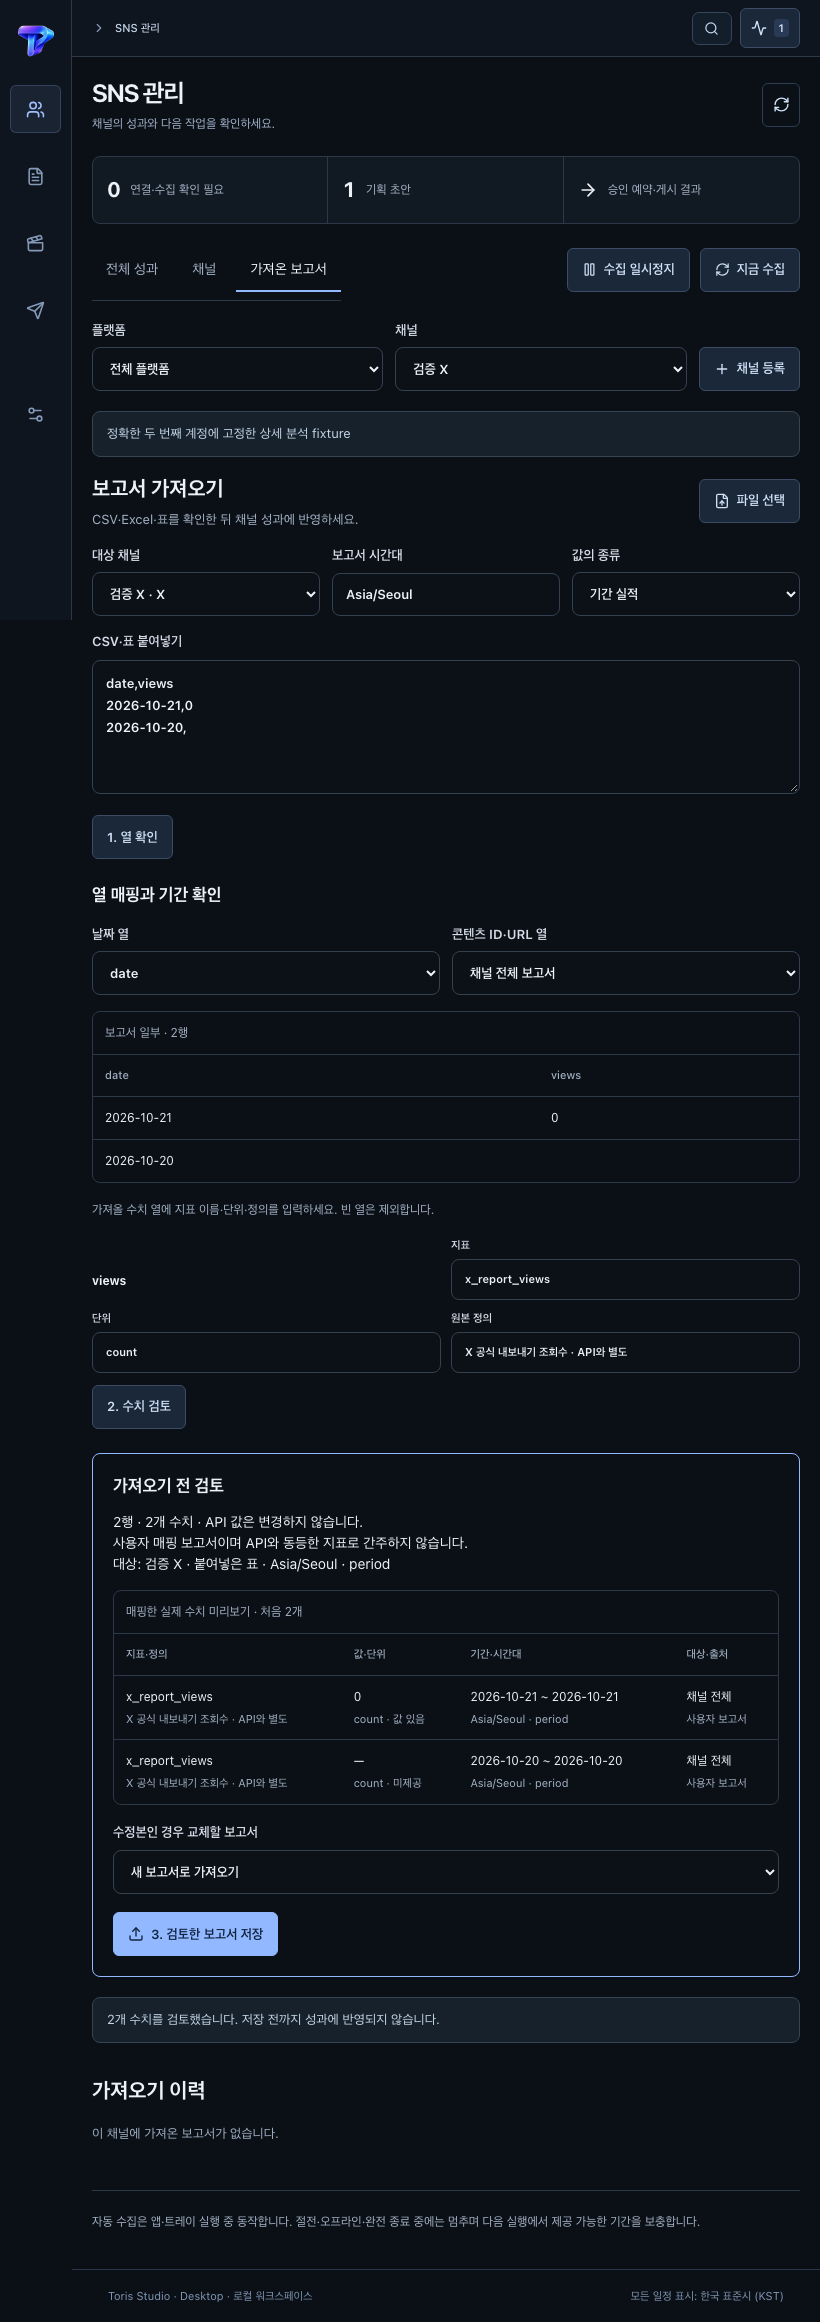
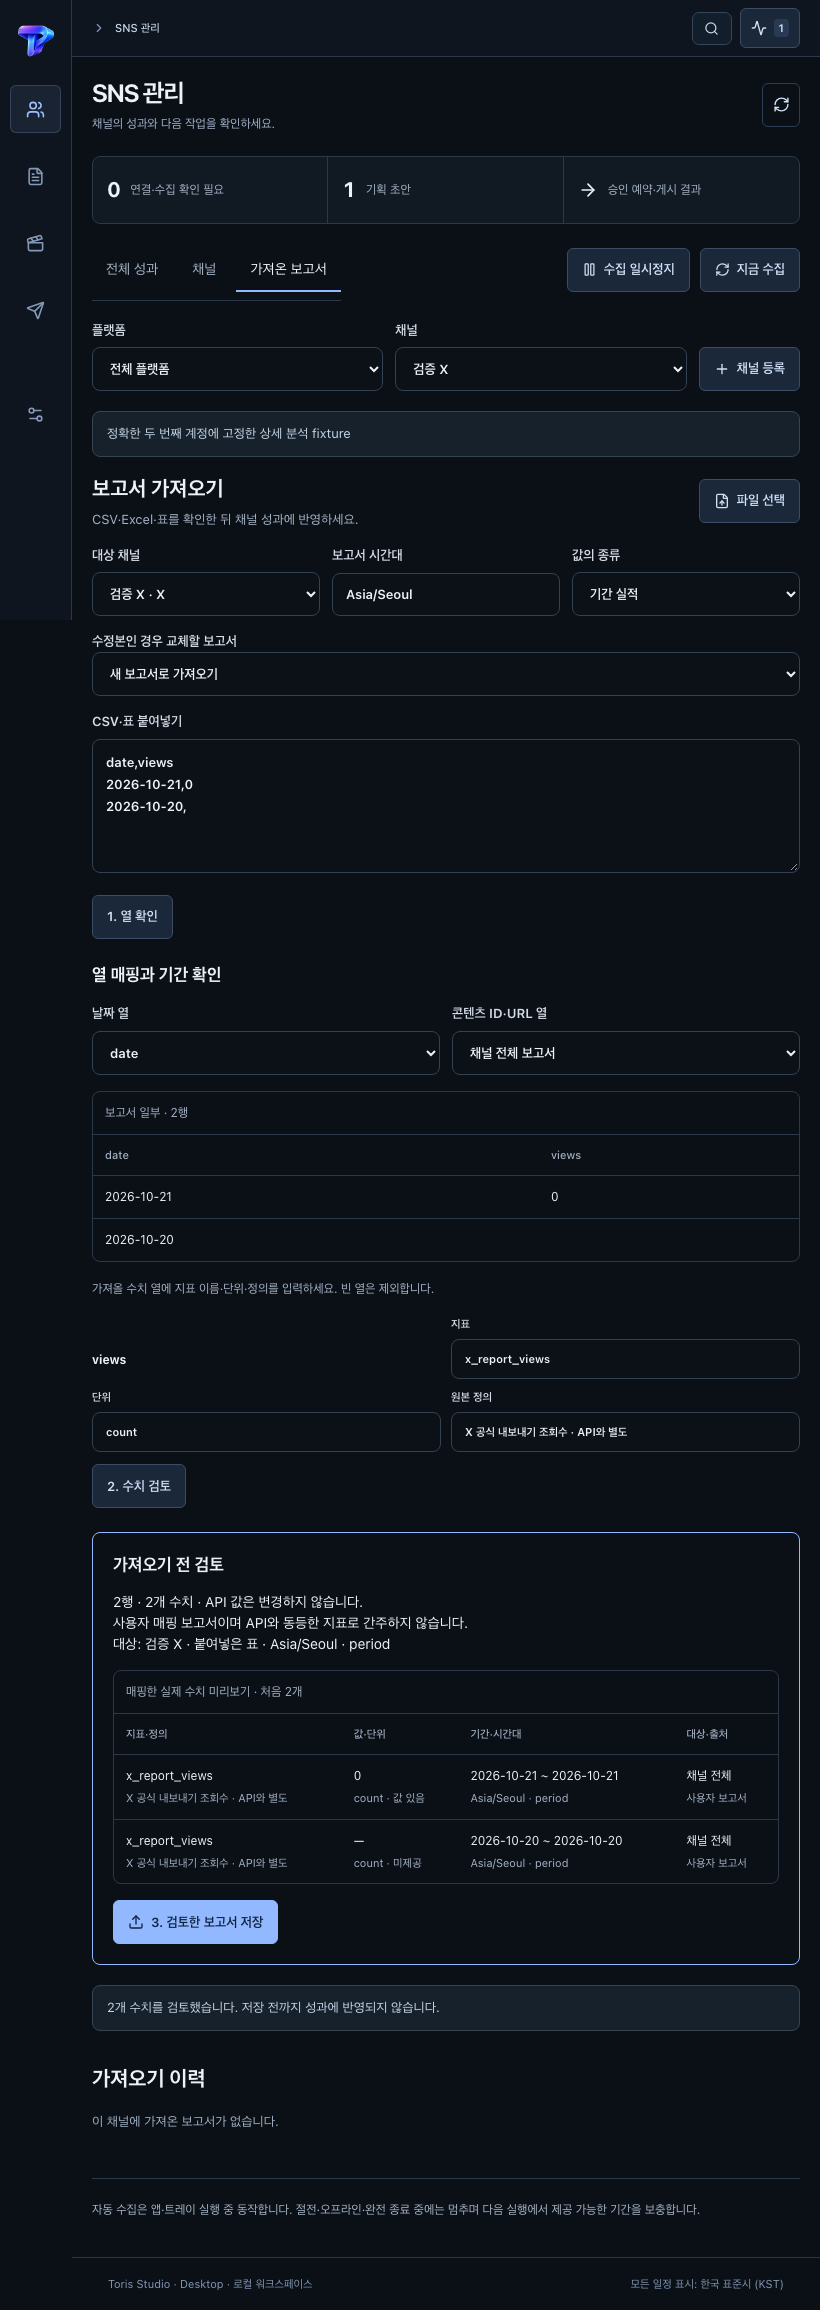
test(sns): verify report aliases and pinned corrections

diff --git a/docs/plans/sns-ui-verification-report.md b/docs/plans/sns-ui-verification-report.md
@@ -4,7 +4,7 @@
 
 | Gate | Evidence |
 |---|---|
-| `node scripts/verify-sns-workspace.mjs` | 9 groups: actual React UI, four primary destinations, eight platforms, exact connection/account pair, zero/null, definitions/timezone, X manual-only controls, mapped report preview/provenance, delayed account and import races, context/keyboard/focus preservation, platform/topic stale protection, RDC copy, 1380×900 and 820×620 without horizontal overflow |
+| `node scripts/verify-sns-workspace.mjs` | 12 groups: actual React UI, four primary destinations, eight platforms, exact connection/account pair, zero/null, definitions/timezone, X manual-only controls, mapped report preview/provenance, stable report alias after account rebind, legacy correction ownership, delayed account and import races, context/keyboard/focus preservation, platform/topic stale protection, RDC copy, 1380×900 and 820×620 without horizontal overflow |
 | `node scripts/verify-ai-workspace.mjs` | 7 groups: real-shaped discovery, evidence deduplication, manual context preservation, bounded RDC request, editable received fixture, delayed DB disconnect/reconnect, trend brief |
 | `node scripts/verify-publication-ui.mjs` | 19 groups: destination consent, subset approval, partial retry, uncertain reconciliation, KST scheduling, revision-bound saved RDC copy, explicit draft apply, manual Naver handoff, TikTok draft/direct distinctions, 820px layout |
 | `node scripts/verify-browser-ui.mjs` | 11 groups: preference persistence, serialized save, redacted failure/recovery, 820px layout, system-browser-only OAuth dispatch |
@@ -17,10 +17,14 @@
 
 Native verifiers honor `CARGO_TARGET_DIR`. This run used `/Users/toris/projects/toris_studio/desktop/src-tauri/target`. The video gate builds the native bin and isolated `creation_qa_bridge` example. Existing asset/motion package commands build their helpers. Media staging was copied from the installed bundle only after `verifyMedia` verified pinned manifest SHA, architecture and FFmpeg 9.0.2; the installed app was neither launched nor changed.
 
+Final alias/correction rerun: `/tmp/toris-sns-node24/node scripts/verify-sns-workspace.mjs` passed on Node v24.16.0 after the final analytics UI changes. Other gates above retain their previously recorded evidence. The initial old fixture failed at report-history lookup because it still expected `accountId`; the updated fixture now requires `channelId` and preserves source/observation `reportChannelId`.
+
 ## Regressions exercised
 
 - A pending or rejected account-B query immediately hides account-A rows and CSV controls. Recovery exports B only. A late B response after switching to X cannot render or export API rows.
 - Three deferred mapped previews separately change target, timezone and metric mapping before resolution. Stale review and save controls never revive. Paste uses `.txt` delimiter detection; comma CSV cannot be forced into TSV.
+- A legacy imported source keeps remote-A as its original owner and a stable local `reportChannelId` after channel rebind to B. API reads carry channel ID plus remote account; import/history use one channel query. The legacy report remains visible.
+- Corrections must be selected before preview. The fixture requires original owner A and the selected `replaceImportId` in preview; changing the replacement while a mapped preview is pending prevents revived review/commit. Reselecting and reviewing commits the captured source, replaces imported 11 with 17, marks the original replaced, and leaves B API 72 unchanged. This is browser/IPC-fixture evidence; native persistence is covered separately by the analytics contract tests.
 - Mapped preview shows the actual two reviewed observations, including original definition, `0`, unavailable `—`, timezone and user-report provenance before commit.
 - A received text fixture remains user reviewed. Changing platform or topic makes it stale without replacing edited prose; background polling preserves textarea focus after navigation settles.
 - Saving and reloading a video catches the StrictMode selection-version race. The source fix resets initialization on cleanup and ignores unmounted responses; the preserved regression passes.
@@ -30,7 +34,7 @@ The shared fixture server uses the actual production Vite config, disables devel
 
 ## Artifacts and limits
 
-Committed SNS captures: [overview](../review/sns/overview-1380.png), [channel](../review/sns/channel-820.png), [mapped import preview](../review/sns/report-preview-820.png), [creation narrow](../review/sns/creation-820.png), [creation wide](../review/sns/creation-1380.png), [machine report](../review/sns/verification.json). Set `TORIS_SNS_UI_ARTIFACTS` to redirect CI output. Captures were inspected visually.
+Committed SNS captures: [overview](../review/sns/overview-1380.png), [channel](../review/sns/channel-820.png), [mapped import preview](../review/sns/report-preview-820.png), [legacy correction preview](../review/sns/legacy-correction-820.png), [creation narrow](../review/sns/creation-820.png), [creation wide](../review/sns/creation-1380.png), [machine report](../review/sns/verification.json). Set `TORIS_SNS_UI_ARTIFACTS` to redirect CI output. Captures were inspected visually.
 
 Other local reports/captures: `docs/review/asset-studio/verification.json`, `docs/review/motion/report.json`, `/private/tmp/toris-ai-workspace-ui`, `/private/tmp/toris-publication-ui`, `/private/tmp/toris-desktop-interactions`, `/private/tmp/toris-video-templates`.
 
